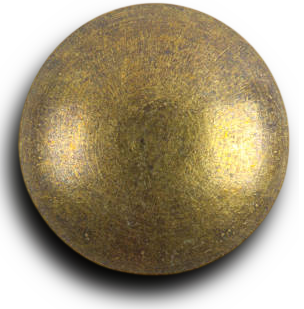
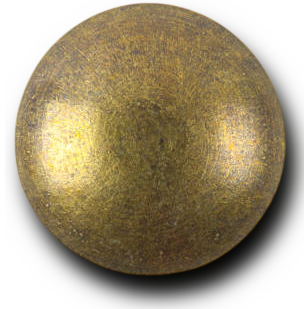
style updates

diff --git a/assets/css/core.css b/assets/css/core.css
@@ -1,10 +1,9 @@
-/* Structural elements */
 @media (min-width: 1000px) {
     body {
-        background: radial-gradient(125% 125% at 33% 20%, rgba(255, 255, 255, 0) 40%, #00000066 100%), url('/assets/images/eye_trans.png'), url('/assets/images/sq2.png');
-        background-size: 100%, auto 80vh, auto;
+        background: radial-gradient(125% 125% at 33% 20%, rgba(255, 255, 255, 0) 40%, #00000066 100%), url('/assets/images/pisn.png'), url('/assets/images/bg.png');
+        background-size: 100%, 30px, auto;
         background-repeat: no-repeat, no-repeat, repeat;
-        background-position: top, left center, top;
+        background-position: top, left 60px center, top;
     }
 }
 @media (max-width: 999px) {
@@ -17,7 +16,7 @@
 }
 
 html, body {
-    background-color: var(--sunny);
+    background-color: var(--bg-color);
     min-height: 100vh;
     margin: 0;
 }
@@ -26,75 +25,26 @@ body {
     justify-content: center;
     align-items: center;
     box-sizing: border-box;
+    padding: var(--body-padding);
 }
 
 /* Main Layout */
 #main {
-    max-width: 675px;
-    background-color: rgba(41, 40, 35, 0.8);
+    max-width: var(--content-width);
+    background-color: var(--content-bg-color);
     background-blend-mode: lighten;
     box-sizing: border-box;
-    padding: 25px 75px 75px 75px;
-    box-shadow: 4px 4px 0px black;
+    padding: 25px var(--content-padding) var(--content-padding) var(--content-padding);
+    box-shadow: var(--content-shadow);
 }
-
 #main img {
     display: block;
     margin: 0 auto;
 }
 
-
-#main-grid {
-    display: inline-block;
-}
-#grid-header, #grid-footer {
-    display: flex;
-    box-sizing: border-box;
-    justify-content: center;
-    flex-wrap: wrap;
-}
-#grid-header a, #grid-footer a {
-    color: var(--text-blue);
-}
-#grid-header {
-    color: var(--text-blue);
-    margin: 0 0 var(--spacing) 0;
-}
-#grid-footer {
-    margin: var(--spacing) 0 0 0;
-}
-#grid-centre {
-    display: flex;
-    gap: var(--spacing);
-    justify-content: center;
-    flex-wrap: wrap;
-}
-.grid-cell {
-    height: var(--cell-height);
-    flex-shrink: 0;
-    overflow-y: auto;
-}
-.grid-cell.text-cell {
-    display: flex;
-    background: hsl(43, 80%, 97%);
-    border: var(--border);
-    width: 300px;
-    box-sizing: border-box;
-    padding: var(--spacing);
-    box-shadow: 4px 4px 0px var(--text-blue);
-}
-.grid-cell.img-cell {
-    box-shadow: 4px 4px 0px rgb(36, 29, 28);
-}
-.grid-cell.img-cell img {
-    height: 100%;
-    width: auto;
-    display: block;
-    
-}
-
 /* Text */
 h1, h2 {
+    color: var(--font-color);
     font-family: var(--accent-font);
     line-height: var(--headings-line-height);
     letter-spacing: var(--title-spacing);
@@ -104,15 +54,17 @@ h1 {
     font-weight: var(--title-weight);
     font-size: var(--h1-size);
     margin: 0;
+    text-align: center;
+    padding: var(--body-padding) 0 calc(var(--p-size)*2) 0;
 }
 h2 {
-    color: var(--text-blue);
+    color: var(--font-color);
     font-weight: var(--title-weight);
     font-size: var(--h2-size);
-    margin: 0 0 var(--p-size) 0;
+    margin: calc(var(--p-size)*2) 0 var(--p-size) 0;
 }
 p, li {
-    color: var(--text-blue);
+    color: var(--font-color);
     font-family: var(--p-font);
     font-size: var(--p-size);
     line-height: var(--p-line-height);
@@ -120,6 +72,7 @@ p, li {
     margin-block-start: 0 !important;
     letter-spacing: var(--p-spacing);
     word-spacing: var(--word-spacing);
+    text-align: justify;
 }
 p:not(:last-child) {
     margin-block-end: var(--p-size);
@@ -143,8 +96,8 @@ li {
     margin-block-end: calc(var(--p-size) / 3);
 }
 *::selection {
-    background: var(--text-blue);
-    color: var(--computer-grey);
+    background: pink;
+    color: black;
 }
 
 /* Media */

diff --git a/index.html b/index.html
@@ -36,29 +36,15 @@
 
                 <h1>CALLUM HACKETT</h1>
 
-                <h2>About</h2>
-
-                <p>I'm a researcher in human and artificial intelligence, interested in how we describe systems that think and feel.</p>
-
-                <p>My background is in cognitive and computational linguistics + the philosophy of mind and language.</p>
-
-                <p>My work is broadly critical of attempts to reduce biological intelligence to data processing.</p>
+                <p>I'm a researcher in human and artificial intelligence, interested in how we describe systems that think and feel. My background is in cognitive and computational linguistics + the philosophy of mind and language. My work is broadly critical of attempts to reduce biological intelligence to data processing.</p>
 
                 <h2>Consulting</h2>
 
-                <p>Since 2019, I've worked in private industry on problems like AI alignment and reasoning systems.</p>
-
-                <p>I offer consulting services to UK startups that need help building bridges between tech stack and product strategy.</p>
-
-                <p><a href="https://www.youtube.com/watch?v=kBD9kygMBqU" target="_blank">Here</a>'s an example of a talk I gave on the promise of neurosymbolic architectures.</p>
+                <p>Since 2019, I've worked in private industry on problems like AI alignment and reasoning systems. I offer consulting services to UK startups that need help building bridges between tech stack and product strategy. <a href="https://www.youtube.com/watch?v=kBD9kygMBqU" target="_blank">Here</a>'s an example of a talk I gave on the promise of neurosymbolic architectures.</p>
 
                 <h2>Writing</h2>
 
-                <p>I'm currently drafting a book on pseudoscience in the AI industry.</p>
-
-                <p>I write <a href="https://callumhackett.substack.com/about" target="_blank"><em>Culture and Anarchy</em></a>, a newsletter about human progress viewed through the lenses of naturalism, pragmatism and Daoism.</p>
-
-                <p>I've also published academic work <a href="https://bioling.psychopen.eu/index.php/bioling/article/view/9085" target="_blank">on the biological origins of language</a>.</p>
+                <p>I'm currently drafting a book on pseudoscience in the AI industry. I write <a href="https://callumhackett.substack.com/about" target="_blank"><em>Culture and Anarchy</em></a>, a newsletter about human progress viewed through the lenses of naturalism, pragmatism and Daoism. I've also published academic work <a href="https://bioling.psychopen.eu/index.php/bioling/article/view/9085" target="_blank">on the biological origins of language</a>.</p>
             </div>
             <div id="footer">
                 <p><a href="https://callumhackett.substack.com/about" target="_blank">Substack</a> | Contact via <a href="https://www.linkedin.com/in/callumhackett/" target="_blank">LinkedIn</a></p>

diff --git a/assets/css/variables.css b/assets/css/variables.css
@@ -1,9 +1,10 @@
 :root {
     /* Colours */
-    --computer-grey: hsl(240, 50%, 95%);
-    --text-blue: hsl(240, 83%, 96%);
-    --sunny: hsl(43, 5%, 33%);
-    --link-color: hsl(18, 87%, 40%);
+    --bg-color: hsl(48, 5%, 35%);
+    --font-color: white;
+    --link-color: pink;
+    --content-bg-color: rgba(41, 40, 35, 0.8);
+    --content-shadow: 4px 4px 0px black;
 
     /* Font Families */
     --accent-font: 'National Park', 'Helvetica', sans-serif;
@@ -25,8 +26,7 @@
     --word-spacing: 0px;
 
     /* Layout */
-    --border: 2px solid blue;
-    --cell-width: 300px;
-    --cell-height: 375px;
-    --spacing: 28px;
+    --body-padding: 20px;
+    --content-width: 650px;
+    --content-padding: 67px;
 }